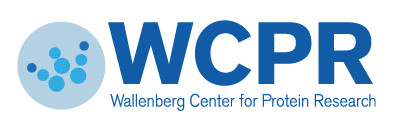
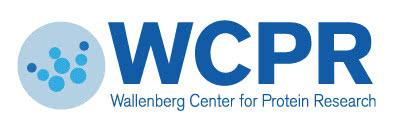
refactor resources page, compressed some img MA-401

diff --git a/frontend/src/components/Resources.vue b/frontend/src/components/Resources.vue
@@ -1,202 +1,122 @@
 <template>
   <section class="section extended-section">
     <div class="container">
-      <div id="resources">
-        <div>
-          <a href="#tools">Tools</a>
-          <a href="#databases">Databases</a>
-          <a href="#api">API</a>
-          <a href="#additional">Additional Resources</a>
-        </div>
-        <div class="rsection">
-          <h2 id="tools" class="title is-2">Tools</h2>
-          <div v-for="tool_data in tools">
-            <div class="columns">
-              <div class="column is-1">
-                <a v-if="tool_data.img" :href="tool_data.link" target="_blank">
-                  <img :src="tool_data.img" width="160">
-                </a>
-                <a v-else :href="tool_data.link" target="_blank">
-                  <div class="name">
-                    <span>{{ tool_data.name }}</span>
-                  </div>
-                </a>
-              </div>
-              <div class="column">
-                <div class="dsc">
-                  <span>
-                    <div v-html="tool_data.description"></div>
-                  </span>
-                </div>
-              </div>
-            </div>
+      <template v-for="(elems, category) in resources">
+        <h2 class="title is-2">{{ category}}</h2>
+        <div class="columns" v-for="elem in elems">
+          <div class="column is-1">
+            <a :href="elem.link" target="_blank">
+              <template v-if="elem.img">
+                <img :src="elem.img"/>
+              </template>
+              <template v-else>
+                {{ elem.name }}
+              </template>
+            </a>
+          </div>
+          <div class="column has-text-justified">
+            <b>{{ elem.title }}</b><br>
+            {{ elem.description }}<br>
+            <a :href="elem.citation_url" target="_blank" v-html="elem.citation"></a>
           </div>
         </div>
-        <div class="rsection">
-          <h2 id="databases" class="title is-2">Databases</h2>
-          <div v-for="db_data in databases">
-            <div class="columns">
-              <div class="column is-1">
-                <a :href="db_data.link" target="_blank"><img :src="imgUrl(db_data.img)" height="75"></a>
-              </div>
-              <div class="column">
-                <div class="">
-                  <span>
-                    <div v-html="db_data.description"></div>
-                  </span>
-                </div>
-              </div>
-            </div>
-          </div>
-        </div>
-        <div class="rsection">
-          <h2 id="api" class="title is-2">API</h2>
-          <div class="columns">
-            <div class="column is-1">
-              <a href="swagger">GEMs API</a>
-            </div>
-            <div class="column">
-              <div class="">
-                <span>
-                  The set of URL requests for the <a href="metabolicatlas.org">metabolicatlas.org</a>
-                  that will return different .json files
-                  depending on the current request.
-                  Gives you the possibility of trying it out to see what the
-                  results would look like.
-                  Main focus on the data available in the GEMs.
-                </span>
-              </div>
-            </div>
-          </div>
-        </div>
-        <div class="rsection">
-          <h2 id="additional" class="title is-2">Additional resources</h2>
-          <div class="columns">
-            <div class="column is-1">
-              <a href="http://biomet-toolbox.chalmers.se/">Biomet-toolbox</a>
-            </div>
-            <div class="column">
-              <span>
-                All the online tools powered by the RAVEN toolbox
-              </span>
-            </div>
-          </div>
-        </div>
-      </div>
+      </template>
     </div>
   </section>
 </template>
 
 <script>
 
-import $ from 'jquery';
-
+/* eslint-disable global-require*/
 export default {
   name: 'resources',
   data() {
     return {
-      tools: [
-        { name: 'STIG-met',
-          link: 'https://github.com/SysBioChalmers/STIG-met',
-          img: '',
-          year: '2017',
-          description: '<b>Simulation Toolbox for Infant Growth with focus on Metabolism (STIG-met) is an integrated platform for simulation of human growth</b>. <br> We combine the experience from traditional growth models with GEMs to provide predictions of metabolic fluxes with enzyme level resolution on a day-to-day basis.<br>For more information please refer to <a href="http://www.nature.com/articles/s41540-017-0004-5">Nilsson, A., Mardinoglu, A., and Nielsen, J. (2017).<i>Predicting growth of the healthy infant using a genome scale metabolic model.</i> Npj Systems Biology and Applications, 3(1), 3</a>',
-          PMID: '28649430' },
-        { name: 'Gecko',
-          link: 'https://sysbiochalmers.github.io/GECKO/',
-          img: 'https://github.com/SysBioChalmers/GECKO/raw/master/GECKO.png?raw=true',
-          year: '-',
-          description: '<b>GECKO is a Matlab/Python package for enhancing Genome-scale metabolic models (GEMs) with Enzyme Constraints, using Kinetics and Omics</b>. With it we can improve simulation performance of GEMs, reduce flux variability and get insight into enzyme usage.<br> Additional information about GECKO can be found in the following publication: <a href="">Sánchez, B., Zhang, C., Nilsson, A., Lahtvee, P., Kerkhoven, E., Nielsen, J. (2017). <i>Improving the phenotype predictions of a yeast genome-scale metabolic model by incorporating enzymatic constraints</i>. Molecular Systems Biology, 13(8): 935</a>' },
-        { name: 'Kiwi',
-          link: 'https://github.com/SysBioChalmers/Kiwi',
-          img: 'https://pythonhosted.org/KiwiDist/_images/kiwi_logo.png',
-          year: '2014',
-          description: '<b>The Kiwi module combines geneset analyses with biological networks to visualize the interactions between genesets that are significant in a given biological system</b> such that the inherent connectivity between gene-sets becomes apparent, by visualize whether these entities or processes are isolated or connected by means of their biological interaction. <br>For more information please refer to <a href="https://bmcbioinformatics.biomedcentral.com/articles/10.1186/s12859-014-0408-9">V&auml;remo, L., Gatto, F., Nielsen, J. (2014). <i>Kiwi: a tool for integration and visualization of network topology and gene-set analysis</i> BMC Bioinformatics</a>.',
-          PMID: '25496126' },
-        { name: 'Piano',
-          link: 'https://varemo.github.io/piano/',
-          img: 'https://varemo.github.io/piano/loggo.png',
-          year: '2013',
-          description: '<b>Platform for integrative analysis of omics data</b> (PIANO) is an An R/Bioconductor package for gene set analysis. <br> For more information please refer to <a href="https://academic.oup.com/nar/article-lookup/doi/10.1093/nar/gkt111">V&auml;remo, L., Nielsen, J., Nookaew, I. (2013). <i>Enriching the gene set analysis of genome-wide data by incorporating directionality of gene expression and combining statistical hypotheses and methods</i> NAR</a>.',
-          PMID: '23444143' },
-        { name: 'RAVEN',
-          link: 'https://github.com/SysBioChalmers/RAVEN/',
-          img: 'http://biomet-toolbox.chalmers.se/img/ravenLogo.png',
-          year: '2013',
-          description: '<b>RAVEN (Reconstruction, Analysis and Visualization of Metabolic Networks) Toolbox is a software suite that allows for semi-automated reconstruction of genome-scale models</b>. It makes use of published models and/or the KEGG database, coupled with extensive gap-filling and quality control features. <br>For more information please refer to <a href="http://journals.plos.org/ploscompbiol/article?id=10.1371/journal.pcbi.1002980">Agren, R., Liu, L., Shoaie, S., Vongsangnak, W., Nookaew, I., Nielsen, J. (2013). <i>The RAVEN Toolbox and Its Use for Generating a Genome-scale Metabolic Model for Penicillium chrysogenum</i>. PLOS Computational Biology</a>.',
-          PMID: '23555215' },
-      ],
-      databases: [
-        { name: 'YSeq Browser',
-          link: 'http://www.sysbio.se/Yseq/',
-          img: './YseqLogo.png',
-          description: '<b>Genome and trascriptome (RNAseq and Microarray) browser of <i>Saccharomyces cerevisiae</i></b>.' },
-        { name: 'yApoptosis',
-          link: 'http://www.ycelldeath.com/yapoptosis/',
-          img: './YAp_logo.gif',
-          description: '<b>yApoptosis is an extensively-curated database dedicated for researchers working on yeast apoptosis</b>. It is an open platform established to facilitate the organization and sharing of knowledge.' },
-        { name: 'yStreX',
-          link: 'http://www.ystrexdb.com/',
-          img: './logo_ystrex.png',
-          description: '<b>yStreX is an online database that collects, stores and distributes genome-wide expression data generated in the studies of stress responses using yeast <i>Saccharomyces cerevisiae</i> as the model organism</b>.' },
-        { name: 'HCSD',
-          link: 'http://cancersecretome.org/',
-          img: './HCSD_logo.png',
-          description: '<b>The human cancer secretome database (HCSD) is a comprehensive database for human cancer secretome data</b>. Query, and compare, publicly available proteomics data published in the field of cancer secretome and tumor microenviroment, and visualize the predicted secretory features and post-translational modification sites (PTMs) for each protein. <br>For more information please refer to <a href="">Feizi, A., Banaei-Esfahani, A., Nielsen, J. (2015) <i>HCSD: the human cancer secretome database</i>. Database 2015 ' },
-      ],
-      dBImageSources: null,
+      resources: {
+        Tools: [
+          { name: 'STIG-met',
+            link: 'https://github.com/SysBioChalmers/STIG-met',
+            img: '',
+            title: 'Simulation Toolbox for Infant Growth with focus on Metabolism (STIG-met) is an integrated platform for simulation of human growth.',
+            description: 'We combine the experience from traditional growth models with GEMs to provide predictions of metabolic fluxes with enzyme level resolution on a day-to-day basis.',
+            citation: 'Nilsson, A., Mardinoglu, A., and Nielsen, J. (2017). <i>Predicting growth of the healthy infant using a genome scale metabolic model.</i> Npj Systems Biology and Applications, 3(1), 3',
+            citation_url: 'http://www.nature.com/articles/s41540-017-0004-5' },
+          { name: 'Gecko',
+            link: 'https://github.com/SysBioChalmers/GECKO',
+            img: require('../assets/gecko-logo.png'),
+            title: 'GECKO is a Matlab/Python package for enhancing Genome-scale metabolic models (GEMs) with Enzyme Constraints, using Kinetics and Omics.',
+            description: 'With it we can improve simulation performance of GEMs, reduce flux variability and get insight into enzyme usage.',
+            citation: 'Sánchez, B., Zhang, C., Nilsson, A., Lahtvee, P., Kerkhoven, E., Nielsen, J. (2017). <i>Improving the phenotype predictions of a yeast genome-scale metabolic model by incorporating enzymatic constraints</i>. Molecular Systems Biology, 13(8): 935',
+            citation_url: 'http://msb.embopress.org/content/13/8/935' },
+          { name: 'Kiwi',
+            link: 'https://github.com/SysBioChalmers/Kiwi',
+            img: require('../assets/kiwi-logo.png'),
+            title: 'The Kiwi module combines geneset analyses with biological networks to visualize the interactions between genesets that are significant in a given biological system.',
+            description: 'With Kiwi, the inherent connectivity between gene-sets becomes apparent - one can visualize whether these entities or processes are isolated or connected by means of their biological interaction.',
+            citation: 'V&auml;remo, L., Gatto, F., Nielsen, J. (2014). <i>Kiwi: a tool for integration and visualization of network topology and gene-set analysis</i>. BMC Bioinformatics',
+            citation_url: 'https://bmcbioinformatics.biomedcentral.com/articles/10.1186/s12859-014-0408-9' },
+          { name: 'Piano',
+            link: 'https://varemo.github.io/piano/',
+            img: require('../assets/piano-logo.jpg'),
+            title: 'Platform for integrative analysis of omics data (PIANO) is an An R/Bioconductor package for gene set analysis.',
+            description: 'Gene set analysis (GSA) is used to elucidate genome-wide data, in particular transcriptome data. We have developed the R package Piano that collects a range of GSA methods into the same system, for the benefit of the end-user. Further on we refine the GSA workflow by using modifications of the gene-level statistics. This enables us to divide the resulting gene set P -values into three classes, describing different aspects of gene expression directionality at gene set level.',
+            citation: 'V&auml;remo, L., Nielsen, J., Nookaew, I. (2013). <i>Enriching the gene set analysis of genome-wide data by incorporating directionality of gene expression and combining statistical hypotheses and methods</i>. NAR',
+            citation_url: 'https://academic.oup.com/nar/article-lookup/doi/10.1093/nar/gkt111' },
+          { name: 'RAVEN',
+            link: 'https://github.com/SysBioChalmers/RAVEN/',
+            img: require('../assets/raven-logo.jpg'),
+            title: 'RAVEN (Reconstruction, Analysis and Visualization of Metabolic Networks) Toolbox is a software suite that allows for semi-automated reconstruction of genome-scale models.',
+            description: 'RAVEN makes use of published models and/or the KEGG database, coupled with extensive gap-filling and quality control features. The software suite also contains methods for visualizing simulation results and omics data, as well as a range of methods for performing simulations and analyzing the results. The software is a useful tool for system-wide data analysis in a metabolic context and for streamlined reconstruction of metabolic networks based on protein homology.  All the online tools powered by the RAVEN toolbox.',
+            citation: 'Agren, R., Liu, L., Shoaie, S., Vongsangnak, W., Nookaew, I., Nielsen, J. (2013). <i>The RAVEN Toolbox and Its Use for Generating a Genome-scale Metabolic Model for Penicillium chrysogenum</i>. PLOS Computational Biology',
+            citation_url: 'http://journals.plos.org/ploscompbiol/article?id=10.1371/journal.pcbi.1002980' },
+          { name: 'BioMet-toolbox',
+            link: 'http://biomet-toolbox.chalmers.se/',
+            img: require('../assets/biomet-logo.png'),
+            title: 'The BioMet Toolbox 2.0 integrates a number of functionalities enabling the user to work with biological data in a web interface',
+            description: 'The distinguishing feature is to provide a web interface to tools for metabolic pathways and omics analysis developed under different platform-dependent environments enabling easy access to these computational tools.',
+            citation: 'Manuel Garcia-Albornoz, Subazini Thankaswamy-Kosalai, Avlant Nilsson, Leif Väremo, Intawat Nookaew, Jens Nielsen. <i>BioMet Toolbox 2.0: genome-wide analysis of metabolism and omics data</i>. Nucleic Acids Research, Volume 42, Issue W1, 1 July 2014, Pages W175–W181',
+            citation_url: 'https://academic.oup.com/nar/article/42/W1/W175/2436233' },
+        ],
+        Databases: [
+          { name: 'YSeq Browser',
+            link: 'http://www.sysbio.se/Yseq/',
+            img: require('../assets/YseqLogo.png'),
+            title: 'Genome and trascriptome (RNAseq and Microarray) browser of Saccharomyces cerevisiae',
+            description: 'Yseq provides a useful and comprehensive comparison between the two platforms (RNA-seq and microrrays) for gene expression analysis and addresses the contribution of the different steps involved in the analysis of RNA-seq data',
+            citation: 'Nookaew, I., Papini, M., Pornputtapong, N., Scalcinati, G., Fagerberg, L., Uhlén, M., & Nielsen, J. (2012). <i>A comprehensive comparison of RNA-Seq-based transcriptome analysis from reads to differential gene expression and cross-comparison with microarrays: a case study in Saccharomyces cerevisiae</i>. Nucleic acids research, 40(20), 10084-10097',
+            citation_url: 'https://academic.oup.com/nar/article/40/20/10084/2414805' },
+          { name: 'yApoptosis',
+            link: 'http://www.ycelldeath.com/yapoptosis/',
+            img: require('../assets/YAp_logo.gif'),
+            title: 'yApoptosis is an extensively-curated database dedicated for researchers working on yeast apoptosis',
+            description: 'It is an open platform established to facilitate the organization and sharing of knowledge.',
+            citation: 'Wanichthanarak, K., Cvijovic, M., Molt, A., & Petranovic, D. <i>yApoptosis: yeast apoptosis database</i>. Database, 2013',
+            citation_url: 'https://academic.oup.com/database/article/doi/10.1093/database/bat068/341971' },
+          { name: 'yStreX',
+            link: 'http://www.ystrexdb.com/',
+            img: require('../assets/logo_ystrex.png'),
+            title: 'yStreX is an online database that collects, stores and distributes genome-wide expression data generated in the studies of stress responses',
+            description: 'Using Saccharomyces cerevisiae as the model organism, we constructed a web interface with interactive visualization to provide intuitive access and to display the queried data for users with no background in bioinformatics.',
+            citation: 'Kwanjeera Wanichthanarak, Intawat Nookaew, Dina Petranovic. <i>yStreX: yeast stress expression database</i>. Database, Volume 2014, 1 January 2014',
+            citation_url: 'https://academic.oup.com/database/article/doi/10.1093/database/bau068/2634682' },
+          { name: 'HCSD',
+            link: 'http://cancersecretome.org/',
+            img: require('../assets/HCSD_logo.png'),
+            title: 'The human cancer secretome database (HCSD) is a comprehensive database for human cancer secretome data',
+            description: 'Query, and compare, publicly available proteomics data published in the field of cancer secretome and tumor microenviroment, and visualize the predicted secretory features and post-translational modification sites (PTMs) for each protein.',
+            citation: 'Feizi, A., Banaei-Esfahani, A., Nielsen, J. (2015) <i>HCSD: the human cancer secretome database</i>. Database 2015',
+            citation_url: 'https://academic.oup.com/database/article/doi/10.1093/database/bav051/2433184' },
+        ],
+        API: [
+          { name: 'Metabolic Atlas API',
+            link: 'swagger',
+            img: require('../assets/logo.png'),
+            title: 'Access the integrated GEMs programatically.',
+            description: 'The  API is a set of URL requests for the Metabolic Atlas that will return different .json files depending on the current request. This gives you the possibility of trying it out to see what the results would look like.' },
+        ],
+      },
     };
-  },
-  watch: {
-    /* eslint-disable quote-props */
-    '$route': function watchSetup() {
-      if (this.$route.hash) {
-        this.scrollToHash(this.$route.hash);
-      }
-    },
-  },
-  methods: {
-    imgUrl(path) {
-      return this.dBImageSources(path);
-    },
-    scrollToHash(hash) {
-      $(window).scrollTop($(hash).offset().top);
-    },
-  },
-  beforeMount() {
-    this.dBImageSources = require.context('../assets', false, /\.(png|gif)$/);
-  },
-  mounted() {
-    if (this.$route.hash) {
-      this.scrollToHash(this.$route.hash);
-    }
   },
 };
 
 </script>
-
-<style lang="scss">
-#resources {
-  .rsection {
-    display: block;
-    margin-bottom: 1.5rem;
-    margin-top: 2rem;
-  }
-
-  .dsc, .name {
-    height: 100px;
-    line-height: 75px;
-
-    span {
-      display: inline-block;
-      vertical-align: middle;
-      line-height: normal;
-    }
-  }
-
-  .name {
-    font-size: 1.5rem;
-  }
-}
-
-</style>

diff --git a/frontend/src/components/Home.vue b/frontend/src/components/Home.vue
@@ -66,7 +66,7 @@ export default {
         { type: '',
           title: 'Explore integrated models',
           text: 'After careful consideration, open-source consensus models are integrated into the <b>Metabolic Atlas</b>. This manual process ensures the presented models are of the highest standard, and have the required visual components. Also, it gives us the possibility to integrate with other databases, such as the <a href="https://proteinatlas.org" target=_blank>Human Protein Atlas</a>.',
-          img: require('../assets/explorer.png'),
+          img: require('../assets/explorer.jpg'),
           url: '/explore' },
         { type: 'homepage-submenu',
           title: 'GEM Browser',
@@ -81,7 +81,7 @@ export default {
         { type: 'homepage-submenu',
           title: 'Search',
           text: 'Search works either within the slected integrated model or across all models.',
-          img: require('../assets/search.png'),
+          img: require('../assets/search.jpg'),
           url: '/explore/search' },
         { type: 'homepage-submenu',
           title: 'Export',
@@ -91,12 +91,12 @@ export default {
         { type: '',
           title: 'Community GEMs',
           text: 'Some genome scale metabolic models have still to grow to the point where they can be integrated into <b>Metabolic Atlas</b>. Until then, we provide the tools to decide which of them is of interest, and ways to download it.',
-          img: require('../assets/gems.png'),
+          img: require('../assets/gems.jpg'),
           url: '/gems' },
         { type: 'homepage-submenu',
           title: 'Compare',
           text: 'Before deciding on which GEM to download, use the <i>Compare</i> feature to see how different models overlap.<br><br>This feature is still undergoing significant development.',
-          img: require('../assets/compare.png'),
+          img: require('../assets/compare.jpg'),
           url: '/compare' },
         { type: 'homepage-submenu',
           title: 'Analyze',
@@ -106,12 +106,12 @@ export default {
         { type: 'homepage-submenu',
           title: 'Download',
           text: 'The community GEMs can be downloaded from the browser or via the <b>Metabolic Atlas</b> FTP server.',
-          img: require('../assets/download.png'),
+          img: require('../assets/download.jpg'),
           url: '/gems/download' },
         { type: '',
           title: 'Resources',
           text: 'Working with metabolic models requires a set of tools and external databases, which we have collected for one-click access.<br>The <b>Metabolic Atlas</b> database is open to further integrations via the API.',
-          img: require('../assets/resources.png'),
+          // img: require('../assets/resources.jpg'),
           url: '/resources' },
       ],
       currentMenu: {},

diff --git a/frontend/src/App.vue b/frontend/src/App.vue
@@ -32,8 +32,7 @@
             <template v-for="(menuPath, menuName) in menuElems">
               <template v-if="Array.isArray(menuPath)">
                 <div class="navbar-item has-dropdown is-hoverable is-unselectable">
-                  <a class="navbar-link" :class="{ 'is-active': false }" v-html="menuName">
-                  </a>
+                  <a class="navbar-link" :class="{ 'is-active': false }"> {{ menuName }} </a>
                   <div class="navbar-dropdown">
                     <template v-for="submenu in menuPath">
                       <template v-for="(submenuPath, submenuName) in submenu">
@@ -120,17 +119,13 @@ export default {
       /* eslint-disable quote-props */
       Logo,
       menuElems: {
-        '<b>Explore models</b>': '/explore',
+        'Explore models': '/explore',
         'GEMs': [
           { 'List of GEMs': '/gems' },
           { 'Compare': '/gems/compare' },
           { 'Download': '/gems/download' },
         ],
-        'Resources': [
-          { 'Tools': '/resources#tools' },
-          { 'External Databases': '/resources#databases' },
-          { 'API': '/resources#api' },
-        ],
+        'Resources': '/resources',
         'Documentation': '/documentation',
         'About': '/about',
       },
